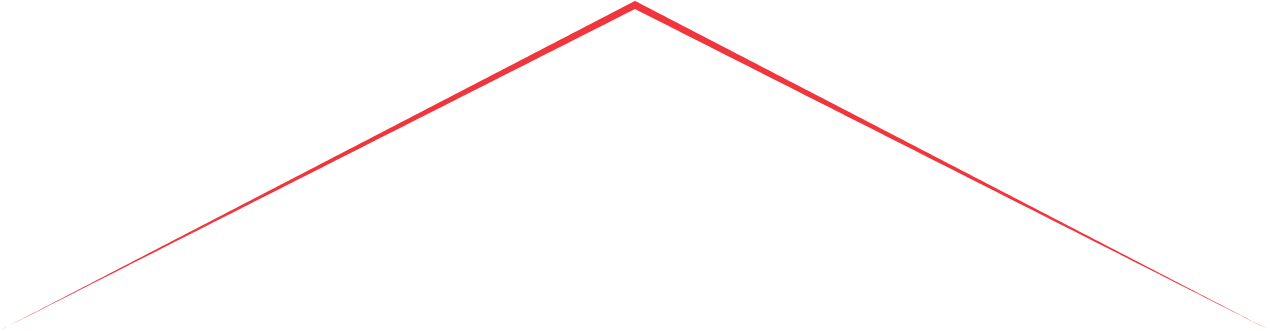
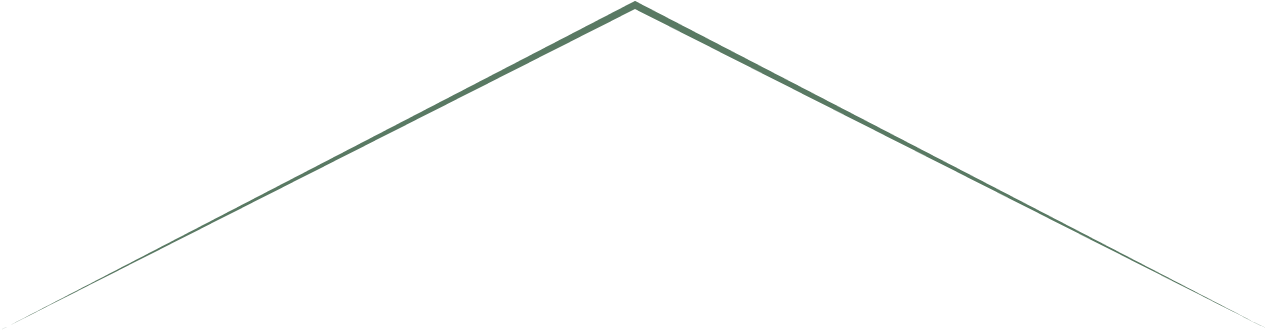
Редизайн

diff --git a/css/main.min.css b/css/main.min.css
@@ -1,1 +1,1 @@
-.slideRight{animation-name:slideRight;-webkit-animation-name:slideRight;animation-duration:2s;-webkit-animation-duration:2s;animation-timing-function:ease-in-out;-webkit-animation-timing-function:ease-in-out;visibility:visible !important}@keyframes slideRight{0%{transform:translateX(-150%)}50%{transform:translateX(8%)}65%{transform:translateX(-4%)}80%{transform:translateX(4%)}95%{transform:translateX(-2%)}100%{transform:translateX(0%)}}@-webkit-keyframes slideRight{0%{-webkit-transform:translateX(-150%)}50%{-webkit-transform:translateX(8%)}65%{-webkit-transform:translateX(-4%)}80%{-webkit-transform:translateX(4%)}95%{-webkit-transform:translateX(-2%)}100%{-webkit-transform:translateX(0%)}}.slideLeft{animation-name:slideLeft;-webkit-animation-name:slideLeft;animation-duration:1200ms;-webkit-animation-duration:1200ms;animation-timing-function:ease-in-out;-webkit-animation-timing-function:ease-in-out;visibility:visible !important}@keyframes slideLeft{0%{transform:translateX(150%)}100%{transform:translateX(0%)}}@-webkit-keyframes slideLeft{0%{-webkit-transform:translateX(150%)}50%{-webkit-transform:translateX(-8%)}65%{-webkit-transform:translateX(4%)}80%{-webkit-transform:translateX(-4%)}95%{-webkit-transform:translateX(2%)}100%{-webkit-transform:translateX(0%)}}html{box-sizing:border-box}*,::before,::after{box-sizing:inherit}body{font-family:"Oswald",sans-serif;background-color:rgba(227,227,224,.23);font-style:normal;font-weight:700;font-size:20px;line-height:1.5;letter-spacing:.01em;color:#323440}a{text-decoration:none;color:#323440;font-size:20px}h1,h2,h3,p{font-style:inherit;margin:0;padding:0;outline:0}img{display:block}ul{padding:0;margin:0;list-style:none}.container{width:1300px;margin-left:auto;margin-right:auto;padding-left:15px;padding-right:15px}.title{display:block;position:relative;font-weight:700;font-size:30px;line-height:1.5;text-align:center;padding-top:15px;padding-bottom:60px}.title::after{content:"";display:block;position:absolute;top:55%;left:50%;transform:translate(-50%, -50%);width:100px;height:25px;background-repeat:no-repeat;background-image:url(../img/title.svg);filter:drop-shadow(0px 2px 1px rgba(50, 52, 64, 0.4))}.title--second{text-align:center;font-weight:700;line-height:1.5;text-align:center;padding-top:60px;padding-bottom:25px;font-size:20px}.position{position:relative}.position__text{display:inline-block;text-align:center;position:absolute;top:50%;left:50%;transform:translate(-50%, -50%);font-weight:700;font-size:20px;line-height:24px}.header{display:flex;justify-content:space-between;align-items:center}.header__contact{display:flex}.header__contact .contact__items:not(:last-child){margin-right:20px}.header__menu{position:relative;display:flex;margin-right:30px}.header__menu .menu__items:not(:last-child){margin-right:40px}.menu__link{display:inline-block;position:relative;padding:20px 0;transition:transform 250ms linear}.menu__link::after{opacity:0;content:"";display:block;position:absolute;left:50%;transform:translate(-50%, -50%);width:100%;border:1px solid #f0353c;background-color:#f0353c;box-shadow:0px 1px 2px rgba(0,0,0,.25);transition:opacity 250ms linear}.menu__link:hover::after{opacity:1}.header__menu::after{content:"";display:block;position:absolute;bottom:0;left:50%;transform:translate(-50%, -50%);width:100%;border:1px solid #f0353c;background-color:#f0353c;box-shadow:0px 1px 2px rgba(0,0,0,.25)}.hero{display:flex;justify-content:flex-end;position:relative}.hero__slogan{font-weight:700;font-size:30px;line-height:1.2;text-align:center;padding-top:85px;padding-bottom:400px;padding-right:150px}.hero__img{position:absolute;top:10%;left:0;z-index:2;box-shadow:-10px 10px 10px 5px rgba(0,0,0,.25)}.hero__img--second{position:absolute;bottom:0;right:0;z-index:1}.hero__text{position:absolute;bottom:0;left:10%;font-size:30px}.hero__bg{background-color:#fff}.benefits{display:flex;justify-content:space-between;padding:85px 0;background-repeat:no-repeat;background-image:url(../img/bg-img.png)}.benefits__text{display:inline-block;text-align:center;font-weight:500;font-size:23px;line-height:24px;padding:20px 74px}.benefits__bg{width:calc((100% - 100px)/3);display:flex;flex-direction:column;justify-content:space-around;align-items:center;background-color:#fff;border:1px solid rgba(62,71,128,.2);box-shadow:0px 4px 4px rgba(0,0,0,.25);border-radius:5px}.benefits__icon{fill:#f0353c;margin-top:20px}.services{display:flex;justify-content:space-between;padding-bottom:85px}.services__bg{background-color:#fff}.services__position{position:relative}.services__item{display:block;width:180px;height:180px;background-color:#f0353c;box-shadow:0px 0px 23px 3px rgba(240,53,60,.25);border-radius:90px;transition:background-color 200ms linear}.services__item:hover{background-color:#323440}.services__text{display:inline-block;text-align:center;position:absolute;top:50%;left:50%;transform:translate(-50%, -50%);font-weight:700;font-size:20px;line-height:24px;color:#fff}.advantages{display:flex;justify-content:center;align-items:flex-end}.advantages__item{width:calc((100% - 270px)/4)}.advantages__item:not(:last-child){margin-right:50px}.advantages__item:nth-child(2){margin-bottom:30px}.advantages__item:nth-child(3){margin-bottom:30px}.process{display:flex;justify-content:center}.process__item{position:relative;width:calc((100% - 520px)/6);margin-right:70px;margin-bottom:60px}.process__item:nth-last-child(1){margin-right:0}.process__item:not(:last-child)::after{content:"";display:inline-block;position:absolute;top:25%;right:-60%;transform:translate(-50%);width:40px;height:20px;background-repeat:no-repeat;background-size:contain;background-image:url(../img/ArrowR.svg)}.process__text{text-align:center;padding-top:20px}.footer{background-color:rgba(128,128,128,.686);padding:70px 0}.footer-contact__item{padding:5px 0}/*# sourceMappingURL=main.min.css.map */
+.slideRight{animation-name:slideRight;-webkit-animation-name:slideRight;animation-duration:2s;-webkit-animation-duration:2s;animation-timing-function:ease-in-out;-webkit-animation-timing-function:ease-in-out;visibility:visible !important}@keyframes slideRight{0%{transform:translateX(-150%)}50%{transform:translateX(8%)}65%{transform:translateX(-4%)}80%{transform:translateX(4%)}95%{transform:translateX(-2%)}100%{transform:translateX(0%)}}@-webkit-keyframes slideRight{0%{-webkit-transform:translateX(-150%)}50%{-webkit-transform:translateX(8%)}65%{-webkit-transform:translateX(-4%)}80%{-webkit-transform:translateX(4%)}95%{-webkit-transform:translateX(-2%)}100%{-webkit-transform:translateX(0%)}}.slideLeft{animation-name:slideLeft;-webkit-animation-name:slideLeft;animation-duration:1200ms;-webkit-animation-duration:1200ms;animation-timing-function:ease-in-out;-webkit-animation-timing-function:ease-in-out;visibility:visible !important}@keyframes slideLeft{0%{transform:translateX(150%)}100%{transform:translateX(0%)}}@-webkit-keyframes slideLeft{0%{-webkit-transform:translateX(150%)}50%{-webkit-transform:translateX(-8%)}65%{-webkit-transform:translateX(4%)}80%{-webkit-transform:translateX(-4%)}95%{-webkit-transform:translateX(2%)}100%{-webkit-transform:translateX(0%)}}html{box-sizing:border-box}*,::before,::after{box-sizing:inherit}body{font-family:"Montserrat","Oswald",sans-serif;background-color:rgba(227,227,224,.23);font-style:normal;font-weight:700;font-size:20px;line-height:1.2;color:#323440}a{text-decoration:none;color:#323440;font-size:20px}h1,h2,h3,p{font-style:inherit;margin:0;padding:0;outline:0}img{display:block}ul{padding:0;margin:0;list-style:none}.container{width:1300px;margin-left:auto;margin-right:auto;padding-left:15px;padding-right:15px}.title{display:block;position:relative;font-weight:700;font-size:30px;line-height:1.5;text-align:center;padding-top:15px;padding-bottom:60px}.title::after{content:"";display:block;position:absolute;top:60%;left:50%;transform:translate(-50%, -50%);width:100px;height:30px;background-repeat:no-repeat;background-image:url(../img/title.svg);filter:drop-shadow(0px 2px 1px rgba(50, 52, 64, 0.4))}.title--second{text-align:center;font-weight:700;line-height:1.5;text-align:center;padding-top:60px;padding-bottom:25px;font-size:20px}.position{position:relative}.position__text{display:inline-block;text-align:center;position:absolute;top:50%;left:50%;transform:translate(-50%, -50%);font-weight:700;font-size:20px;line-height:24px}.header{display:flex;justify-content:space-between;align-items:center}.header__contact{display:flex}.header__contact .contact__items:not(:last-child){margin-right:20px}.header__menu{position:relative;display:flex;margin-right:30px}.header__menu .menu__items:not(:last-child){margin-right:40px}.menu__link{display:inline-block;position:relative;padding:20px 0;transition:transform 250ms linear}.menu__link::after{opacity:0;content:"";display:block;position:absolute;left:50%;transform:translate(-50%, -50%);width:100%;border:1px solid #31503b;background-color:#31503b;box-shadow:0px 1px 2px rgba(0,0,0,.25);transition:opacity 250ms linear}.menu__link:hover::after{opacity:1}.header__menu::after{content:"";display:block;position:absolute;bottom:-2px;left:50%;transform:translate(-50%, -50%);width:100%;border:2px solid #597963;background-color:#597963;box-shadow:0px 1px 2px rgba(0,0,0,.25);z-index:1}.hero{display:flex;justify-content:flex-end;position:relative}.hero__slogan{font-weight:700;font-size:30px;line-height:1.2;text-align:center;padding-top:85px;padding-bottom:400px;padding-right:150px}.hero__img{position:absolute;top:10%;left:0;z-index:2;box-shadow:-10px 10px 10px 5px rgba(0,0,0,.25)}.hero__text{position:absolute;bottom:0;left:10%;font-size:30px}.hero__bg{background-color:#fff}.benefits{display:flex;justify-content:space-between;padding:85px 0;background-repeat:no-repeat;background-image:url(../img/bg-img.png)}.benefits__text{display:inline-block;text-align:center;font-weight:500;font-size:23px;line-height:24px;padding:20px 74px}.benefits__bg{width:calc((100% - 100px)/3);display:flex;flex-direction:column;justify-content:space-around;align-items:center;background-color:#fff;border:1px solid rgba(62,71,128,.2);box-shadow:0px 4px 4px rgba(0,0,0,.25);border-radius:5px}.benefits__icon{fill:#597963;margin-top:20px}.services{display:flex;justify-content:space-between;padding-bottom:85px}.services__bg{background-color:#fff}.services__position{position:relative}.services__item{display:block;width:180px;height:180px;background-color:#597963;box-shadow:0px 0px 23px 3px rgba(89,121,99,.25);border-radius:90px;transition:background-color 200ms linear}.services__item:hover{background-color:#31503b}.services__text{display:inline-block;text-align:center;position:absolute;top:50%;left:50%;transform:translate(-50%, -50%);font-weight:700;font-size:20px;line-height:24px;color:#fff}.advantages{display:flex;justify-content:center;align-items:flex-end}.advantages__item{width:calc((100% - 270px)/4)}.advantages__item:not(:last-child){margin-right:50px}.advantages__item:nth-child(2){margin-bottom:30px}.advantages__item:nth-child(3){margin-bottom:30px}.process{display:flex;justify-content:center}.process__item{position:relative;width:calc((100% - 520px)/6);margin-right:70px;margin-bottom:60px}.process__item:nth-last-child(1){margin-right:0}.process__item:not(:last-child)::after{content:"";display:inline-block;position:absolute;top:25%;right:-60%;transform:translate(-50%);width:40px;height:20px;background-repeat:no-repeat;background-size:contain;background-image:url(../img/ArrowR.svg)}.process__text{text-align:center;padding-top:20px}.footer{background-color:rgba(128,128,128,.686);padding:70px 0}.footer-contact__item{padding:5px 0}/*# sourceMappingURL=main.min.css.map */

diff --git a/css/main.css b/css/main.css
@@ -97,13 +97,12 @@ html {
 }
 
 body {
-  font-family: "Oswald", sans-serif;
+  font-family: "Montserrat", "Oswald", sans-serif;
   background-color: rgba(227, 227, 224, 0.23);
   font-style: normal;
   font-weight: 700;
   font-size: 20px;
-  line-height: 1.5;
-  letter-spacing: 0.01em;
+  line-height: 1.2;
   color: #323440;
 }
 
@@ -156,11 +155,11 @@ ul {
   content: "";
   display: block;
   position: absolute;
-  top: 55%;
+  top: 60%;
   left: 50%;
   transform: translate(-50%, -50%);
   width: 100px;
-  height: 25px;
+  height: 30px;
   background-repeat: no-repeat;
   background-image: url(../img/title.svg);
   filter: drop-shadow(0px 2px 1px rgba(50, 52, 64, 0.4));
@@ -229,8 +228,8 @@ ul {
   left: 50%;
   transform: translate(-50%, -50%);
   width: 100%;
-  border: 1px solid #f0353c;
-  background-color: #f0353c;
+  border: 1px solid #31503b;
+  background-color: #31503b;
   box-shadow: 0px 1px 2px rgba(0, 0, 0, 0.25);
   transition: opacity 250ms linear;
 }
@@ -243,13 +242,14 @@ ul {
   content: "";
   display: block;
   position: absolute;
-  bottom: 0;
+  bottom: -2px;
   left: 50%;
   transform: translate(-50%, -50%);
   width: 100%;
-  border: 1px solid #f0353c;
-  background-color: #f0353c;
+  border: 2px solid #597963;
+  background-color: #597963;
   box-shadow: 0px 1px 2px rgba(0, 0, 0, 0.25);
+  z-index: 1;
 }
 
 .hero {
@@ -274,13 +274,6 @@ ul {
   left: 0;
   z-index: 2;
   box-shadow: -10px 10px 10px 5px rgba(0, 0, 0, 0.25);
-}
-
-.hero__img--second {
-  position: absolute;
-  bottom: 0;
-  right: 0;
-  z-index: 1;
 }
 
 .hero__text {
@@ -324,7 +317,7 @@ ul {
 }
 
 .benefits__icon {
-  fill: #f0353c;
+  fill: #597963;
   margin-top: 20px;
 }
 
@@ -346,14 +339,14 @@ ul {
   display: block;
   width: 180px;
   height: 180px;
-  background-color: #f0353c;
-  box-shadow: 0px 0px 23px 3px rgba(240, 53, 60, 0.25);
+  background-color: #597963;
+  box-shadow: 0px 0px 23px 3px rgba(89, 121, 99, 0.25);
   border-radius: 90px;
   transition: background-color 200ms linear;
 }
 
 .services__item:hover {
-  background-color: #323440;
+  background-color: #31503b;
 }
 
 .services__text {

diff --git a/index.html b/index.html
@@ -12,7 +12,7 @@
     <link rel="preconnect" href="https://fonts.googleapis.com" />
     <link rel="preconnect" href="https://fonts.gstatic.com" crossorigin />
     <link
-      href="https://fonts.googleapis.com/css2?family=Oswald:wght@400;500;700&display=swap"
+      href="https://fonts.googleapis.com/css2?family=Montserrat:wght@400;500;700&family=Oswald:wght@400;500;700&display=swap"
       rel="stylesheet"
     />
     <link rel="stylesheet" href="./css/main.min.css" />
@@ -48,19 +48,19 @@
     <main>
       <!-- Hero -->
       <section>
-        <div class="container">
+        <div class="">
           <div class="hero">
-            <div class="hero__img slideRight">
+            <!-- <div class="hero__img slideRight">
               <img width="630px" height="330px" src="./img/hero2.jpg" alt="" />
-              <!-- <p class="hero__text title">Раді вітати Вас</p> -->
-            </div>
+             
+            </div> -->
             <div>
-              <h1 class="hero__slogan slideLeft">На варті Вашого бізнесу</h1>
+              <!-- <h1 class="hero__slogan">На варті Вашого бізнесу</h1> -->
             </div>
-            <div class="hero__img--second slideLeft">
-              <img width="685px" src="./img/hero.jpg" alt="" />
+            <div class="hero__img--second">
+              <img width="1600px" src="./img/hero.jpg" alt="" />
             </div>
-            <p class="hero__text title--second slideRight">Раді вітати Вас</p>
+            <!-- <p class="hero__text title--second slideRight">Раді вітати Вас</p> -->
           </div>
         </div>
       </section>

diff --git a/sass/components/_body.scss b/sass/components/_body.scss
@@ -7,14 +7,14 @@ html {
   box-sizing: inherit;
 }
 body {
-  font-family: "Oswald", sans-serif;
+  font-family: "Montserrat", "Oswald", sans-serif;
 
   background-color: rgba(227, 227, 224, 0.23);
   font-style: normal;
   font-weight: 700;
   font-size: 20px;
-  line-height: 1.5;
-  letter-spacing: 0.01em;
+  line-height: 1.2;
+  // letter-spacing: 0.01em;
   color: #323440;
 }
 a {
@@ -60,11 +60,11 @@ ul {
   content: "";
   display: block;
   position: absolute;
-  top: 55%;
+  top: 60%;
   left: 50%;
   transform: translate(-50%, -50%);
   width: 100px;
-  height: 25px;
+  height: 30px;
   background-repeat: no-repeat;
   background-image: url(../img/title.svg);
   filter: drop-shadow(0px 2px 1px rgba(50, 52, 64, 0.4));

diff --git a/sass/components/_header.scss b/sass/components/_header.scss
@@ -32,8 +32,8 @@
   left: 50%;
   transform: translate(-50%, -50%);
   width: 100%;
-  border: 1px solid #f0353c;
-  background-color: #f0353c;
+  border: 1px solid #31503b;
+  background-color: #31503b;
   box-shadow: 0px 1px 2px rgba(0, 0, 0, 0.25);
   transition: opacity 250ms linear;
 }
@@ -44,11 +44,12 @@
   content: "";
   display: block;
   position: absolute;
-  bottom: 0;
+  bottom: -2px;
   left: 50%;
   transform: translate(-50%, -50%);
   width: 100%;
-  border: 1px solid #f0353c;
-  background-color: #f0353c;
+  border: 2px solid #597963;
+  background-color: #597963;
   box-shadow: 0px 1px 2px rgba(0, 0, 0, 0.25);
+  z-index: 1;
 }

diff --git a/sass/components/_services.scss b/sass/components/_services.scss
@@ -13,13 +13,13 @@
   display: block;
   width: 180px;
   height: 180px;
-  background-color: #f0353c;
-  box-shadow: 0px 0px 23px 3px rgba(240, 53, 60, 0.25);
+  background-color: #597963;
+  box-shadow: 0px 0px 23px 3px rgba(89, 121, 99, 0.25);
   border-radius: 90px;
   transition: background-color 200ms linear;
 }
 .services__item:hover {
-  background-color: #323440;
+  background-color: #31503b;
 }
 .services__text {
   display: inline-block;

diff --git a/sass/components/_hero.scss b/sass/components/_hero.scss
@@ -21,12 +21,12 @@
   box-shadow: -10px 10px 10px 5px rgba(0, 0, 0, 0.25);
   // transform: translate(-50%, -50%);
 }
-.hero__img--second {
-  position: absolute;
-  bottom: 0;
-  right: 0;
-  z-index: 1;
-}
+// .hero__img--second {
+//   position: absolute;
+//   bottom: 0;
+//   right: 0;
+//   z-index: 1;
+// }
 .hero__text {
   position: absolute;
   bottom: 0;

diff --git a/sass/components/_benefits.scss b/sass/components/_benefits.scss
@@ -28,6 +28,6 @@
   border-radius: 5px;
 }
 .benefits__icon {
-  fill: #f0353c;
+  fill: #597963;
   margin-top: 20px;
 }
